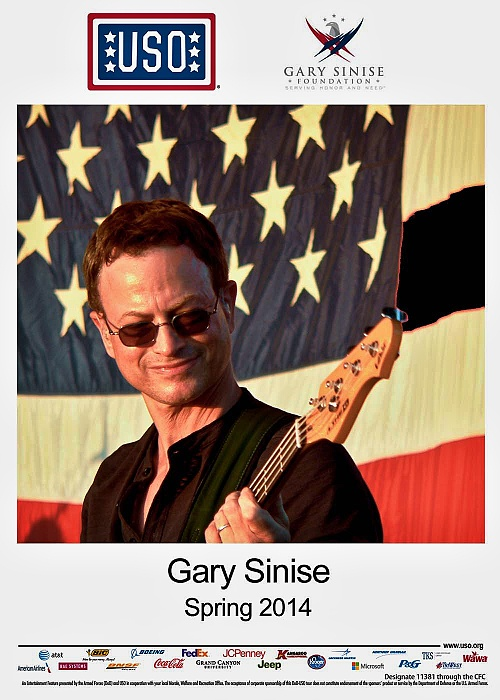
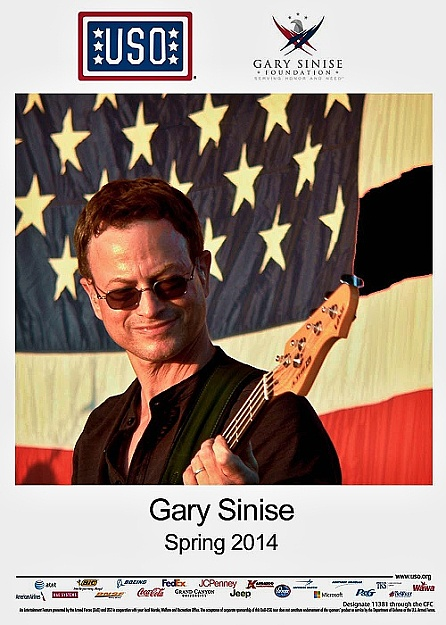
scrolling gallery work

diff --git a/About.html b/About.html
@@ -6,7 +6,6 @@
     <link href="https://fonts.googleapis.com/css?family=Overlock:400,700,400italic,700italic,900" rel="stylesheet" type="text/css">
 	<link rel="stylesheet" type="text/css" href="css/styles.css">
 </head>
-	<script src="scripts.js"></script>
 <body>
 	<header>
 		<div class="logo">
@@ -27,12 +26,41 @@
 		<p>Fabry Studio has been in business for over 50 years in Nashville, Tennessee. Walden S. Fabry was a studio portrait photographer who moved to Nashville, TN from Peoria, IL in the 1940's. He opened Fabry studio and began photographing several country music artists and other entertainers in the area, including Minnie Pearl who influenced his move to Nashville. Mr. Fabry sold his studio to Tom Berens, current owner, in the 1970's. While wedding photography, school pictures, and even aerial photography were a part of the historical services provided, the main focus shifted toward mass reproduction as the country music scene dominated Music City.</p>
         <h1>TODAY</h1>
 		<p> Today, now fully engulfed in the digital age, Fabry Studio's sole focus is on digitally mass reproducing publicity photos for its clients' promotional needs. Fabry Studio has stood the test of time, and while our physical location is Nashville, TN, we cater to clients worldwide. In fact, we are a proud service provider for USO tours. Our clients number among the biggest and best known in the publishing and recording industry. You generally won't find us in advertisements or other publications. Our customers come back for the quality and reliability they can count on over and over again.</p>
-        <div class="image">
-           <img src="images/SwonBrothers.jpg" /><img src="images/LeslieGrace.jpg"/><img src="images/Yandel.jpg"/><img src="images/GarySinise.jpg"/>
+        <div id="scroller" style="width: 500px; height: 625px; margin: 0 auto;">
+            <div class="innerScrollArea">
+                <ul>
+                    <!-- Define photos here -->
+                    <li><img src="images/SwonBrothers.jpg" width="495" height="625" /></li>
+                    <li><img src="images/LeslieGrace.jpg" width="500" height="625" /></li>
+                    <li><img src="images/Yandel.jpg" width="500" height="625" /></li>
+                    <li><img src="images/GarySinise.jpg" width="446" height="625" /></li>
+                </ul>
+            </div>
         </div>
+        <!--<div class="image">
+           <img src="images/SwonBrothers.jpg" /><img src="images/LeslieGrace.jpg"/><img src="images/Yandel.jpg"/><img src="images/GarySinise.jpg"/>
+        </div> -->
         
     </section>
 	<footer>
-	</footer>	
+	</footer>
+    <script type="text/javascript" src="http://ajax.googleapis.com/ajax/libs/jquery/1.8.1/jquery.min.js"></script>
+    <script type="text/javascript">
+    $(function(){
+        var scroller = $('#scroller div.innerScrollArea');
+        var scrollerContent = scroller.children('ul');
+        scrollerContent.children().clone().appendTo(scrollerContent);
+        var curX = 0;
+        scrollerContent.children().each(function(){
+            var $this = $(this);
+            $this.css('left', curX);
+            curX += $this.outerWidth(true);
+        });
+        var fullW = curX / 2;
+        var viewportW = scroller.width();
+
+        scroller.css('overflow-x', 'auto');
+    });
+    </script>
 </body>
 </html>

diff --git a/scripts/scripts.js b/scripts/scripts.js
@@ -1,20 +1,15 @@
-//Problem: user when clicking on image goes to a dead end
-//Solution: create an overlay with the large image - lightbox
+$(function(){
+    var scroller = $('#scroller div.innerScrollArea');
+    var scrollerContent = scroller.children('ul');
+    scrollerContent.children().clone().appendTo(scrollerContent);
+    var curX = 0;
+    scrollerContent.children().each(function(){
+        var $this = $(this);
+        $this.css('left', curX);
+        curX += $this.outerWidth(true);
+    });
+    var fullW = curX / 2;
+    var viewportW = scroller.width();
 
-//1 Capture the click event on a link to an image
-
-//$("#imageGallery a").click(function(event){
-  //event.preventDefault();
-  //var href = $(this).attr("href");
-  //console.log(href);
-  //1.1 Show the overlay
-  //1.2 Update overlay with the image linked in the link
-  //1.3 Get child's alt attribute and set caption
-
-//});
-
-//2 Add overlay
-  //2.1 An image
-  //2.2 A caption
-//3 When overlay is clicked
-  //3.1 Hide the overlay
+    scroller.css('overflow-x', 'auto');
+});

diff --git a/css/styles.css b/css/styles.css
@@ -51,6 +51,12 @@ footer {
 /*******************************
 Navigation
 *******************************/
+a {
+    font-size: 1.2em;
+    font-weight: bold;
+    padding: 20px;
+}
+
 nav {
     padding: 15px;
     background-color: #878787;
@@ -76,20 +82,17 @@ a:link {
     text-decoration: none;
 }
 
-
 /* visited link */
 
 a:visited {
     color: white;
 }
 
-
 /* mouse over link */
 
-a:hover {
+a:hover, a:focus {
     color: #fd793e;
 }
-
 
 /* selected link */
 
@@ -100,4 +103,34 @@ a:active {
 #email_link {
     color: #1c029e;
     font-weight: bolder
+}
+
+/*******************************
+Scrolling Gallery
+*******************************/
+
+#scroller {
+    position: relative;
+}
+
+#scroller .innerScrollArea {
+    overflow: inherit; /*maybe should be set to "hidden"?*/
+    position: absolute;
+    left: 0;
+    right: 0;
+    top: 0;
+    bottom: 0;
+}
+
+#scroller ul {
+    padding: 0;
+    margin: 0;
+    position: relative;
+}
+
+#scroller li {
+    padding: 0;
+    margin: 0;
+    list-style-type: none;
+    position: absolute;
 }
